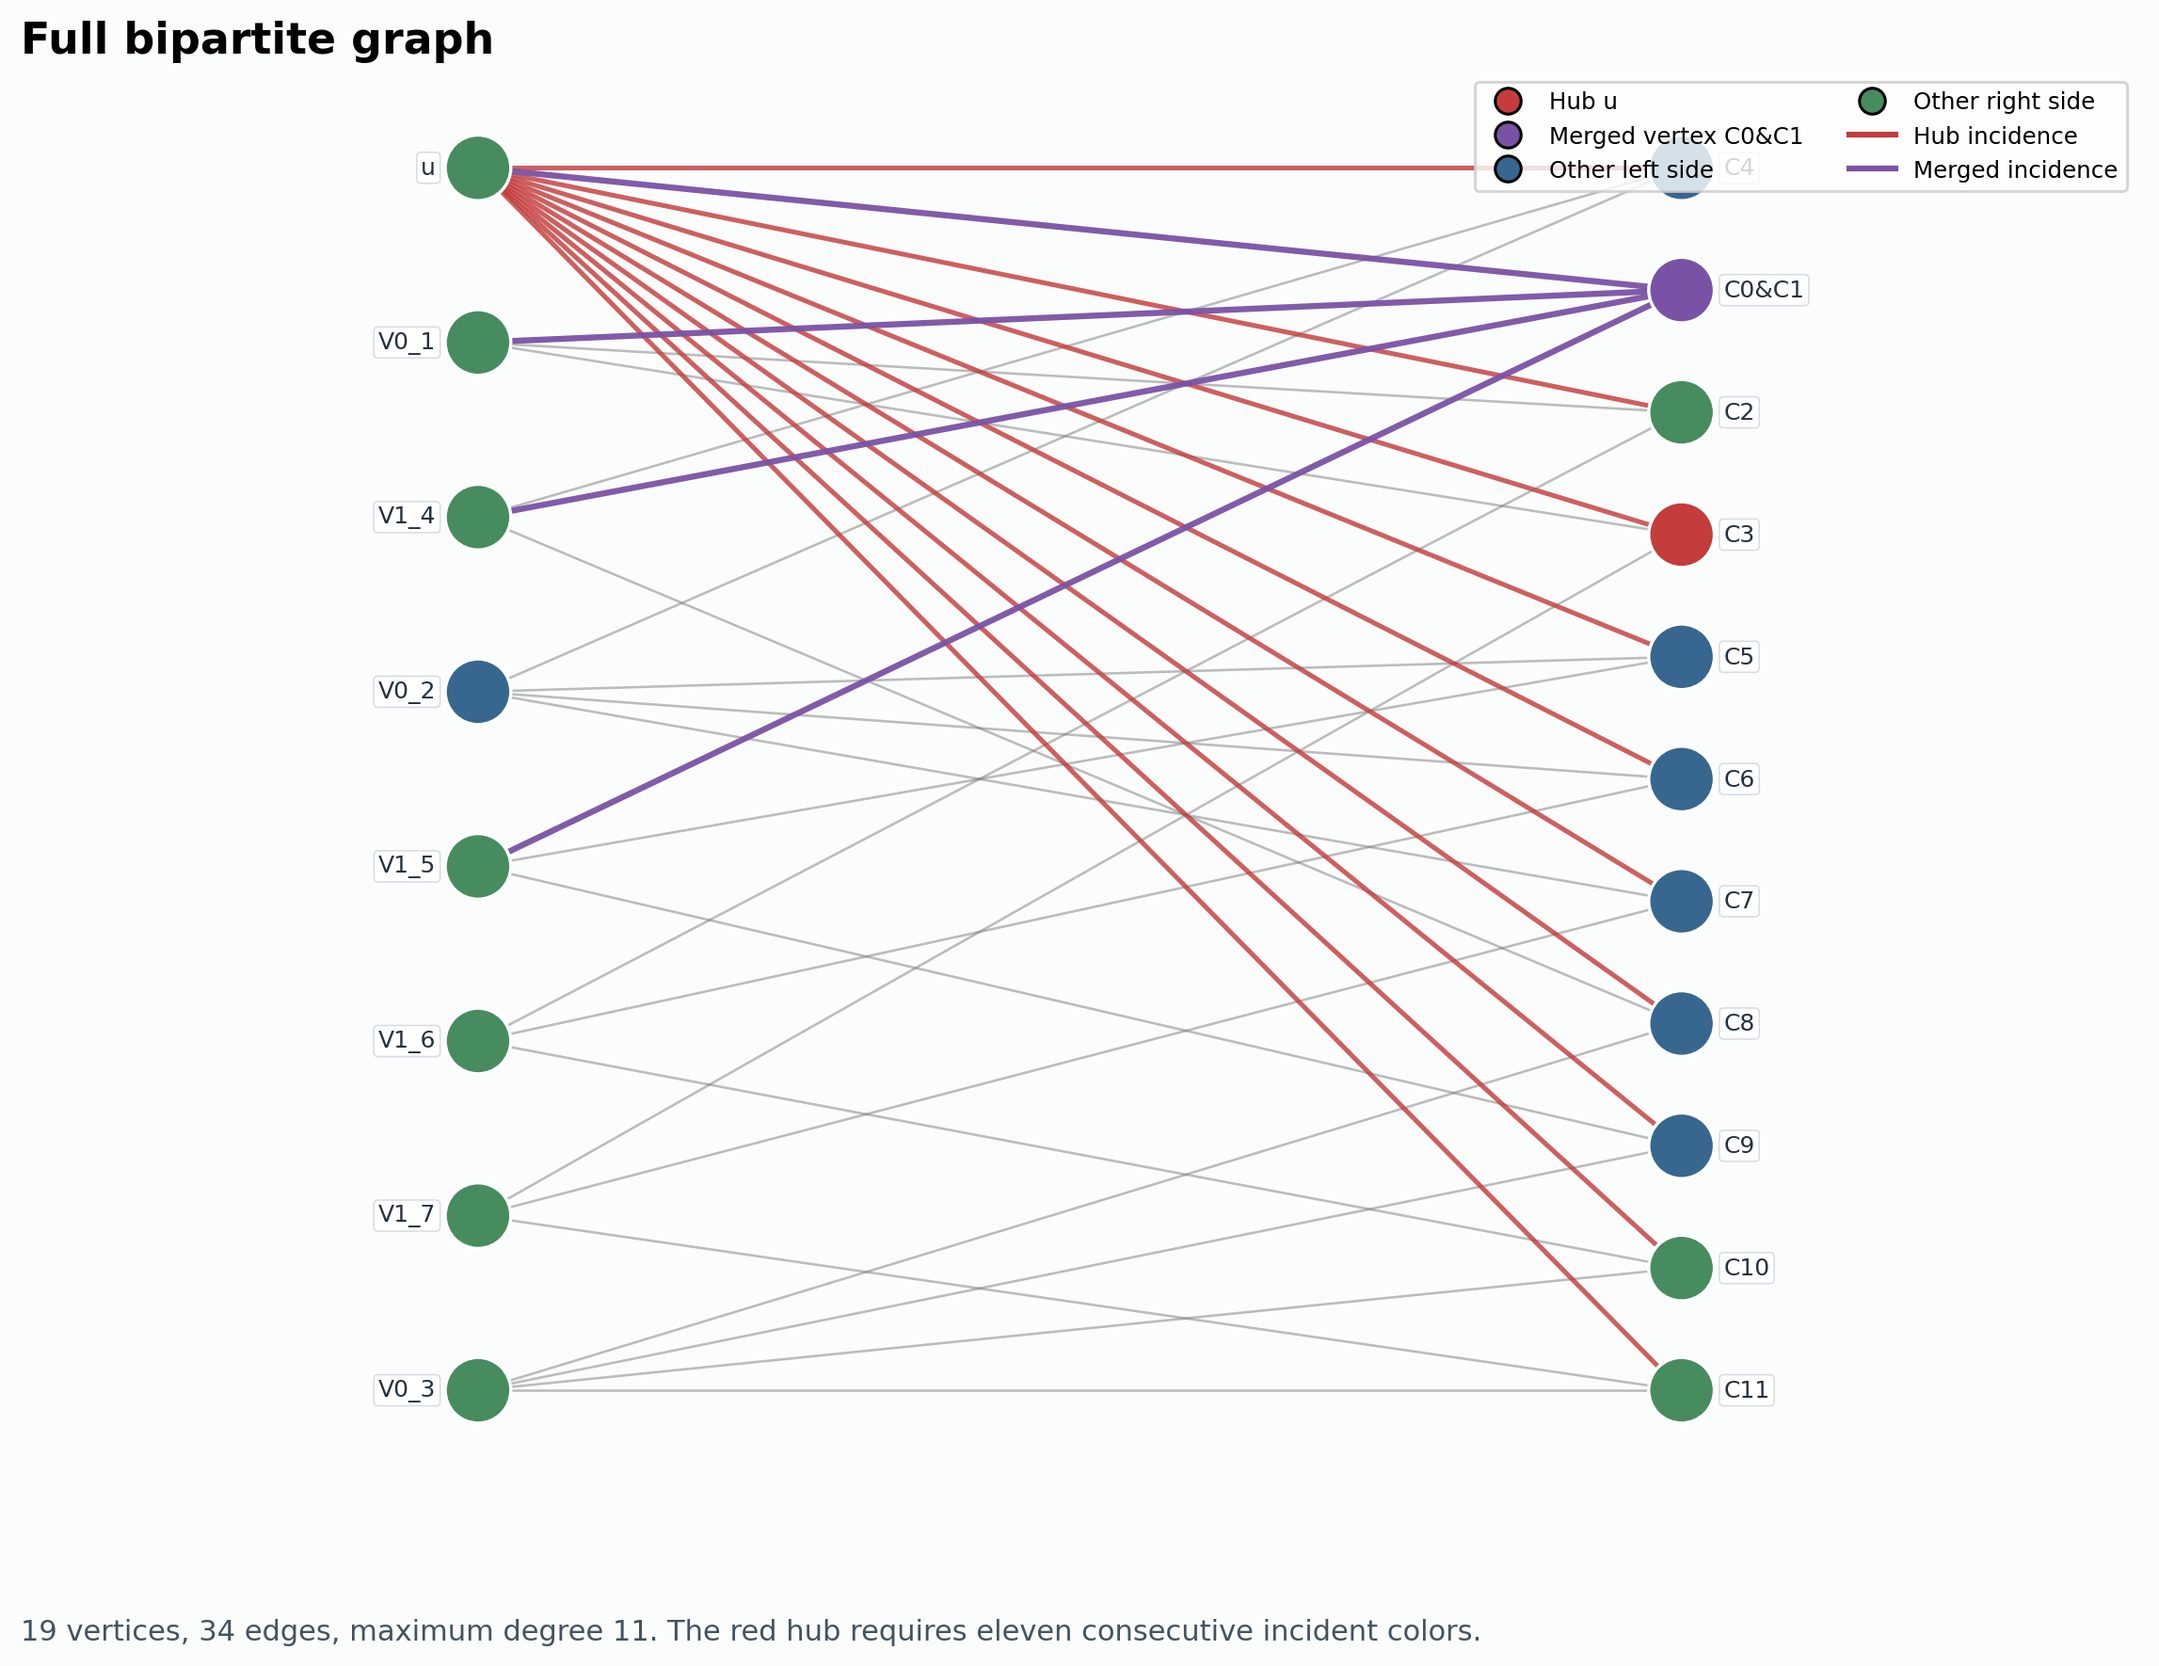
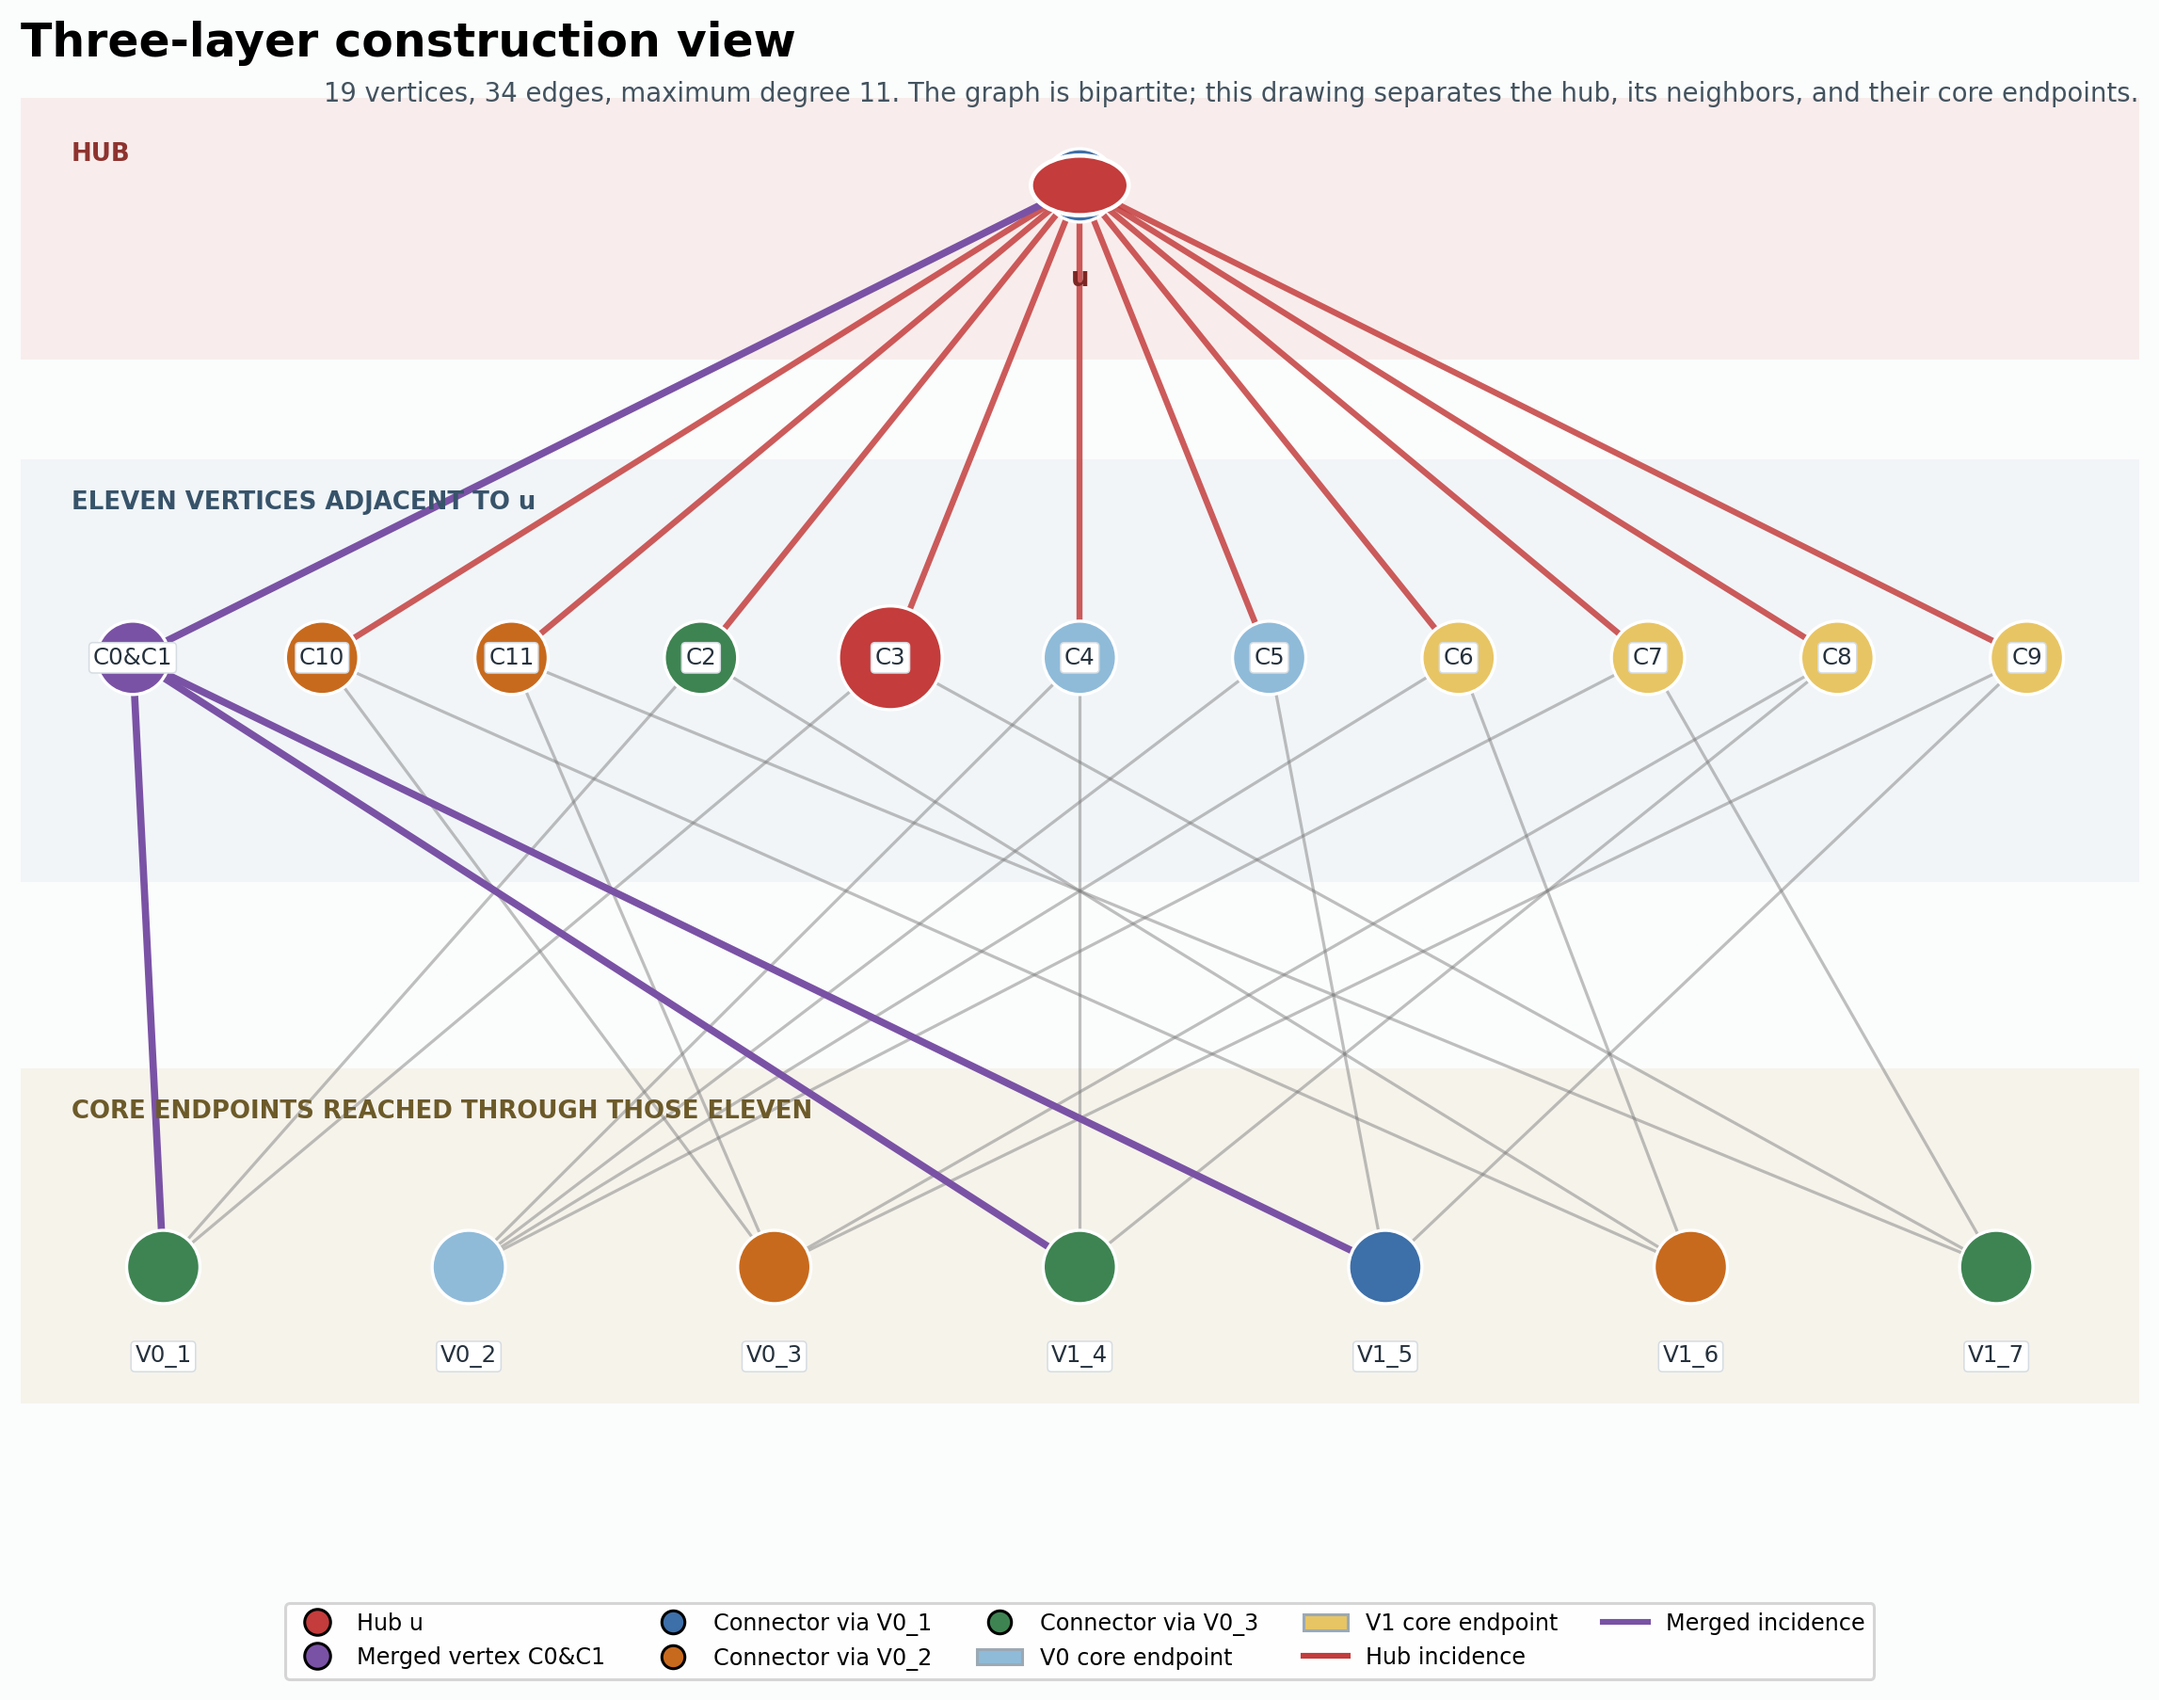
Replace full graph drawings with three-layer views

diff --git a/src/make_discovery_figures.py b/src/make_discovery_figures.py
@@ -24,6 +24,15 @@ MERGED_COLOR = "#7A52A5"
 LEFT_COLOR = "#37678E"
 RIGHT_COLOR = "#468C5F"
 EDGE_COLOR = "#767676"
+MIDDLE_GROUP_COLORS = {
+    "V0_1": "#3D6FA8",
+    "V0_2": "#C86A1D",
+    "V0_3": "#3E8452",
+}
+BOTTOM_GROUP_COLORS = {
+    "V0": "#8FBBD9",
+    "V1": "#E8C564",
+}
 
 
 def load_candidate(path: Path) -> tuple[Graph, dict]:
@@ -45,40 +54,49 @@ def node_colors(graph: Graph, merged_name: str) -> dict[str, str]:
     }
 
 
-def barycenter_layout(graph: Graph) -> dict[str, tuple[float, float]]:
-    left_all = sorted(graph.bipartition[0])
-    right = sorted(graph.bipartition[1])
-    left = ["u"] + [v for v in left_all if v != "u"]
-    adjacency = {v: set(graph._nx.neighbors(v)) for v in graph.vertices}
-    for _ in range(6):
-        right.sort(
-            key=lambda v: (
-                sum(left.index(n) for n in adjacency[v]) / len(adjacency[v]),
-                v,
-            )
-        )
-        movable = left[1:]
-        movable.sort(
-            key=lambda v: (
-                sum(right.index(n) for n in adjacency[v]) / len(adjacency[v]),
-                v,
-            )
-        )
-        left = ["u"] + movable
+def layered_positions(graph: Graph):
+    """Place u, N(u), and the remaining core endpoints in three wide rows."""
 
-    def ys(count: int) -> list[float]:
-        return np.linspace(1.0, 0.0, count).tolist()
+    middle = sorted(graph._nx.neighbors("u"))
+    bottom = sorted(v for v in graph.bipartition[0] if v != "u")
+    pos = {"u": (0.5, 0.96)}
+    middle_x = np.linspace(0.035, 0.965, len(middle))
+    pos.update((vertex, (x, 0.58)) for vertex, x in zip(middle, middle_x))
+    bottom_x = np.linspace(0.05, 0.95, len(bottom))
+    pos.update((vertex, (x, 0.09)) for vertex, x in zip(bottom, bottom_x))
+    return pos
 
-    left_y = ys(len(left))
-    right_y = ys(len(right))
-    return {v: (0.0, left_y[i]) for i, v in enumerate(left)} | {
-        v: (1.0, right_y[i]) for i, v in enumerate(right)
-    }
+
+def middle_group(vertex: str, graph: Graph, merged_name: str) -> str:
+    if vertex == merged_name:
+        return "merged"
+    core_neighbors = [
+        neighbor for neighbor in graph._nx.neighbors(vertex)
+        if neighbor != "u" and neighbor.startswith("V0_")
+    ]
+    return sorted(core_neighbors)[0]
 
 
 def draw_full_graph(ax: plt.Axes, graph: Graph, merged_name: str) -> None:
-    pos = barycenter_layout(graph)
-    colors = node_colors(graph, merged_name)
+    pos = layered_positions(graph)
+    middle = sorted(graph._nx.neighbors("u"))
+    bottom = sorted(v for v in graph.bipartition[0] if v != "u")
+    colors = {"u": HUB_COLOR}
+    for vertex in middle:
+        group = middle_group(vertex, graph, merged_name)
+        colors[vertex] = MERGED_COLOR if group == "merged" else MIDDLE_GROUP_COLORS[group]
+    for vertex in bottom:
+        colors[vertex] = BOTTOM_GROUP_COLORS[vertex.rsplit("_", 1)[0]]
+
+    ax.axhspan(0.82, 1.03, facecolor="#F4DAD8", alpha=0.42, zorder=-3)
+    ax.axhspan(0.40, 0.74, facecolor="#E8EFF5", alpha=0.48, zorder=-3)
+    ax.axhspan(-0.02, 0.25, facecolor="#F1EBDA", alpha=0.48, zorder=-3)
+    ax.text(0.005, 0.995, "HUB", fontsize=8.5, weight="bold", color="#8E332F", va="top")
+    ax.text(0.005, 0.715, "ELEVEN VERTICES ADJACENT TO u", fontsize=8.5,
+            weight="bold", color="#37536A", va="top")
+    ax.text(0.005, 0.225, "CORE ENDPOINTS REACHED THROUGH THOSE ELEVEN",
+            fontsize=8.5, weight="bold", color="#6C5A29", va="top")
+
     edge_sets = {
         "merged": [],
         "hub": [],
@@ -94,51 +112,57 @@ def draw_full_graph(ax: plt.Axes, graph: Graph, merged_name: str) -> None:
     nx_graph = graph._nx
     nx.draw_networkx_edges(
         nx_graph, pos, edgelist=edge_sets["normal"], ax=ax,
-        edge_color=EDGE_COLOR, width=0.85, alpha=0.48
+        edge_color=EDGE_COLOR, width=1.05, alpha=0.46
     )
     nx.draw_networkx_edges(
         nx_graph, pos, edgelist=edge_sets["hub"], ax=ax,
-        edge_color=HUB_COLOR, width=1.65, alpha=0.82
+        edge_color=HUB_COLOR, width=2.1, alpha=0.84
     )
     nx.draw_networkx_edges(
         nx_graph, pos, edgelist=edge_sets["merged"], ax=ax,
-        edge_color=MERGED_COLOR, width=2.1, alpha=0.95
+        edge_color=MERGED_COLOR, width=2.5, alpha=1.0
     )
     nx.draw_networkx_nodes(
-        nx_graph, pos, ax=ax, node_size=520,
+        nx_graph, pos, ax=ax,
+        node_size=[1300 if v == "u" else 650 for v in graph.vertices],
         node_color=[colors[v] for v in graph.vertices], edgecolors="white", linewidths=1.1
     )
+    ux, uy = pos["u"]
+    ax.add_patch(plt.Circle((ux, uy), 0.024, facecolor=HUB_COLOR, edgecolor="white",
+                            linewidth=1.5, zorder=4))
     for vertex, (x, y) in pos.items():
-        if x < 0.5:
-            ax.text(
-                x - 0.035, y, vertex, ha="right", va="center", fontsize=8.2,
-                color="#25313D",
-                bbox={"boxstyle": "round,pad=0.18", "fc": "white", "ec": "#D5DCE2", "lw": 0.5},
-            )
-        else:
-            ax.text(
-                x + 0.035, y, vertex, ha="left", va="center", fontsize=8.2,
-                color="#25313D",
-                bbox={"boxstyle": "round,pad=0.18", "fc": "white", "ec": "#D5DCE2", "lw": 0.5},
-            )
-    ax.set_title("Full bipartite graph", fontsize=15, weight="bold", loc="left")
-    ax.text(
-        0.0, -0.07,
-        f"{graph.n} vertices, {graph.m} edges, maximum degree {graph.delta}. "
-        "The red hub requires eleven consecutive incident colors.",
-        transform=ax.transAxes, fontsize=10, color="#43535F",
-    )
+        above = y > 0.7
+        below = y < 0.25
+        if vertex == "u":
+            ax.text(x, y - 0.075, "u", ha="center", va="center", fontsize=9.0,
+                    weight="bold", color="#7C2723")
+            continue
+        ax.text(
+            x, y + (0.065 if above else -0.072 if below else 0),
+            vertex, ha="center", va="center", fontsize=8.0, color="#25313D",
+            bbox={"boxstyle": "round,pad=0.17", "fc": "white", "ec": "#D5DCE2", "lw": 0.5},
+        )
+    ax.set_title("Three-layer construction view", fontsize=16, weight="bold", loc="left")
     legend = [
         Line2D([0], [0], marker="o", color="none", markerfacecolor=HUB_COLOR, markersize=9, label="Hub u"),
         Line2D([0], [0], marker="o", color="none", markerfacecolor=MERGED_COLOR, markersize=9, label=f"Merged vertex {merged_name}"),
-        Line2D([0], [0], marker="o", color="none", markerfacecolor=LEFT_COLOR, markersize=9, label="Other left side"),
-        Line2D([0], [0], marker="o", color="none", markerfacecolor=RIGHT_COLOR, markersize=9, label="Other right side"),
+        *[Line2D([0], [0], marker="o", color="none", markerfacecolor=color, markersize=8,
+                 label=f"Connector via {group}") for group, color in MIDDLE_GROUP_COLORS.items()],
+        Patch(facecolor=BOTTOM_GROUP_COLORS["V0"], edgecolor="#9BA9B4", label="V0 core endpoint"),
+        Patch(facecolor=BOTTOM_GROUP_COLORS["V1"], edgecolor="#9BA9B4", label="V1 core endpoint"),
         Line2D([0], [0], color=HUB_COLOR, lw=2, label="Hub incidence"),
         Line2D([0], [0], color=MERGED_COLOR, lw=2, label="Merged incidence"),
     ]
-    ax.legend(handles=legend, loc="upper right", frameon=True, fontsize=8, ncols=2)
-    ax.set_xlim(-0.38, 1.38)
-    ax.set_ylim(-0.12, 1.08)
+    ax.text(
+        1.0, 0.995,
+        f"{graph.n} vertices, {graph.m} edges, maximum degree {graph.delta}. The graph is bipartite; "
+        "this drawing separates the hub, its neighbors, and their core endpoints.",
+        transform=ax.transAxes, fontsize=9.0, color="#43535F", ha="right", va="top",
+    )
+    ax.legend(handles=legend, loc="upper center", bbox_to_anchor=(0.5, -0.035),
+              frameon=True, fontsize=7.8, ncols=5)
+    ax.set_xlim(-0.02, 1.02)
+    ax.set_ylim(-0.13, 1.05)
     ax.axis("off")
 
 

diff --git a/DISCOVERIES.md b/DISCOVERIES.md
@@ -11,9 +11,9 @@ Status: verified candidates, 2026-08-22. These are **new graphs**, not new recor
   `8:11:eec834587010499acfe094698e6a75c05984de65c5a3d4e51289b2502aa75887`.
 - Automorphism group order 8; 9 vertex orbits.
 
-![Q1-00012 full bipartite graph](figures/Q1-00012-full.png)
+![Q1-00012 three-layer construction view](figures/Q1-00012-full.png)
 
-**Figure 1.** The complete graph with its two bipartition classes. The red hub must receive a block of eleven consecutive colors; purple marks the vertex produced by identifying connectors `C0` and `C1`.
+**Figure 1.** Three-layer construction view: `u` is in the top layer, all eleven vertices adjacent to `u` are in the middle layer, and their core endpoints are in the bottom layer. Purple marks the merged connector.
 
 ![Q1-00012 hub-constraint view](figures/Q1-00012-hub-constraint.png)
 
@@ -32,9 +32,9 @@ Status: verified candidates, 2026-08-22. These are **new graphs**, not new recor
   `8:11:2412ce4d084d92cdaa41c7e1a009e8011de4be9e281a3fe6349eb7fc057ef9a0`.
 - Automorphism group order 12; 9 vertex orbits.
 
-![Q1-00014 full bipartite graph](figures/Q1-00014-full.png)
+![Q1-00014 three-layer construction view](figures/Q1-00014-full.png)
 
-**Figure 4.** The second discovered graph in bipartite-column form. Purple marks the merged connector `C0&C4`; red marks the degree-11 hub.
+**Figure 4.** The second discovered graph in three-layer form: hub `u`, its eleven neighbors, and the core endpoints reached through them. Purple marks the merged connector `C0&C4`.
 
 ![Q1-00014 hub-constraint view](figures/Q1-00014-hub-constraint.png)
 
